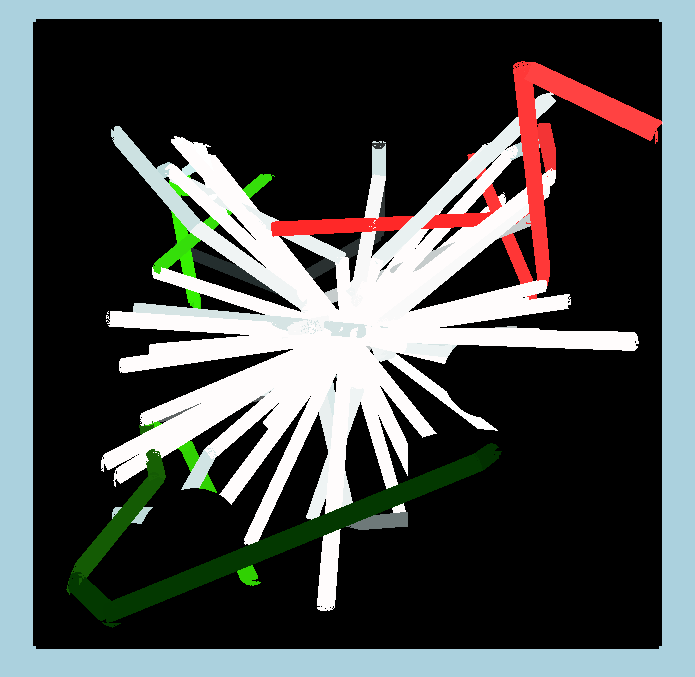
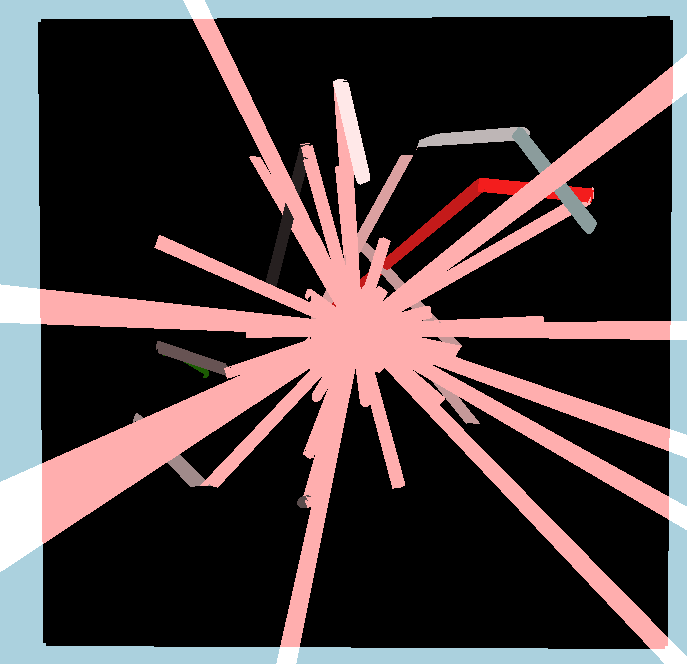
change images

diff --git a/photon_beam/README.md b/photon_beam/README.md
@@ -400,7 +400,7 @@ Left images are generated by using both photon mapping and photon beam methods. 
 <img src="images/photon_beam_only_negative_0dot7g.png" width="400">
 </p>
 
-Bellow additional 3 images are generated with more light intensity to compensate absence of surface radiance.
+Bellow additional 3 images are generated with more light intensity and air albedo.
 
 Air scattering and extinct cofficients were also adjusted.
 
